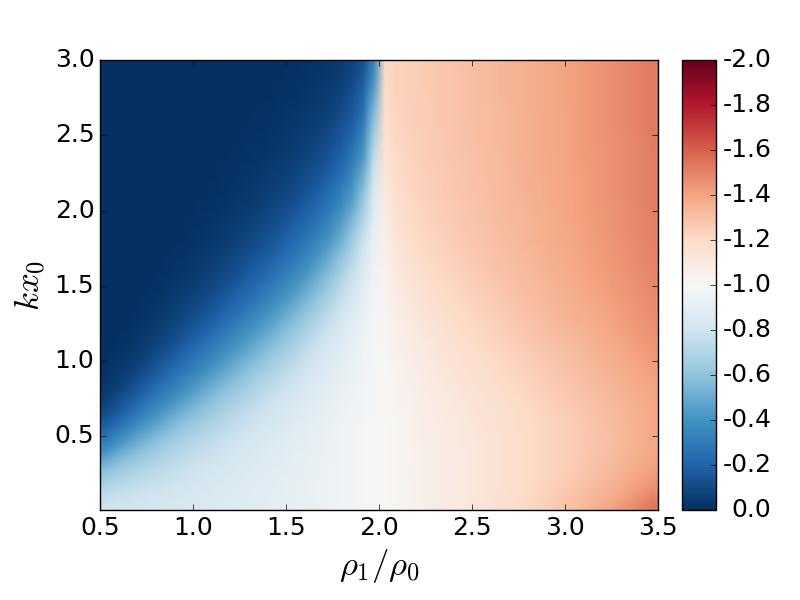
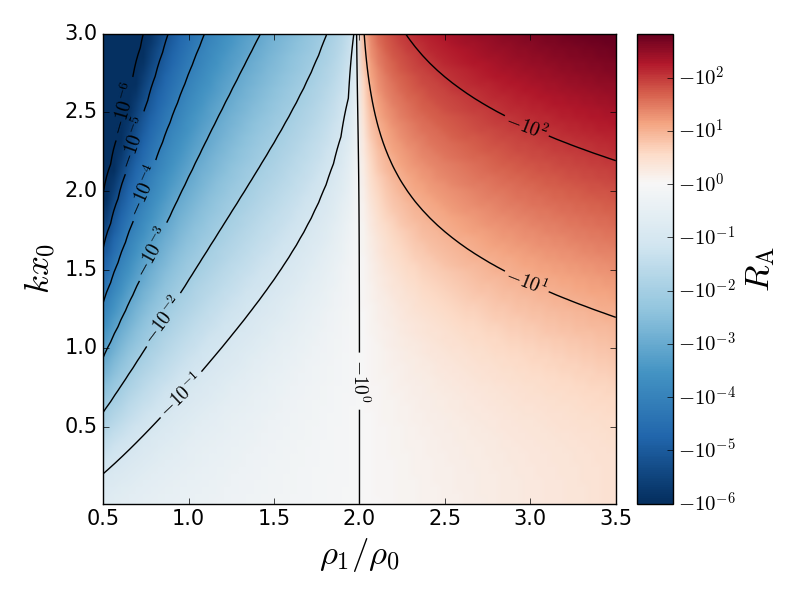
Added specific contours to sms.py plots

diff --git a/sms.py b/sms.py
@@ -21,7 +21,6 @@ c0 = 1.
 vA = 1.3
 cT = sc.sqrt(c0**2*vA**2*(c0**2+vA**2)**(-1))
 R2 = 2.
-#c1 = c2*np.sqrt(R2/R1)
 
 mode_options = ['slow-kink-surf', 'slow-saus-surf', 'fast-kink-surf',
                 'fast-saus-surf']
@@ -35,7 +34,7 @@ for mode in mode_options:
     if 'saus' in mode:
         saus_mode_options.append(mode)
 
-mode = mode_options[0]
+mode = mode_options[1]
 
 plot_variable = 'amp-ratio'
 #plot_variable = 'amp-ratio-2'
@@ -300,16 +299,12 @@ else:
 fig = plt.figure()
 aspect = 'auto'
 
-#
+# plot heat map
 im = plt.imshow(data_set.transpose(), cmap=cmap, origin='lower', norm=norm, 
                 clim=clim(data_set,plot_variable), aspect=aspect, 
                 extent=[R1vals[0],R1vals[-1],Kvals[0],Kvals[-1]])
-contours = plt.contour(data_set.transpose(), colors='black', extent=[R1vals[0],R1vals[-1],Kvals[0],Kvals[-1]])
 
-#Make negative contours solid too.
-matplotlib.rcParams['contour.negative_linestyle'] = 'solid'
 
-plt.clabel(contours, inline=1, fmt='%1.1f', fontsize=14)
 ax = plt.gca()
 
 plt.xlabel(r'$\rho_1/\rho_0$', fontsize=25)
@@ -351,21 +346,46 @@ elif 'min-pert-shift' in plot_variable:
     cb_label = r'$\Delta_\mathrm{min}$'
 cb.set_label(cb_label, fontsize=25)
 
+
 # colorbar tick labels
 if 'amp-ratio' in plot_variable:
     if 'kink' in mode:
-        cb.set_ticks([0.01,0.1,1.,10.,100])
-        cb.set_ticklabels([r'$10^{-2}$',r'$10^{-1}$',r'$10^{0}$',r'$10^{1}$',r'$10^{2}$'])
+        cb_ticks = [0.01,0.1,1.,10.,100]
+        cb_ticklabels = [r'$10^{-2}$',r'$10^{-1}$',r'$10^{0}$',r'$10^{1}$',r'$10^{2}$']
     elif 'saus' in mode:
-        cb.set_ticks([-0.000001,-0.00001,-0.0001,-0.001,-0.01,-0.1,-1.,-10.,-100])
-        cb.set_ticklabels([r'$-10^{-6}$',r'$-10^{-5}$',r'$-10^{-4}$',r'$-10^{-3}$',
-                           r'$-10^{-2}$',r'$-10^{-1}$',r'$-10^{0}$',r'$-10^{1}$',
-                           r'$-10^{2}$'])
+        cb_ticks = [-100, -10, -1, -0.1, -0.01, -0.001, -0.0001, -0.00001, -0.000001]
+        cb_ticklabels = [r'$-10^{2}$',r'$-10^{1}$',r'$-10^{0}$',r'$-10^{-1}$',
+                           r'$-10^{-2}$',r'$-10^{-3}$',r'$-10^{-4}$',r'$-10^{-5}$',
+                           r'$-10^{-6}$']
+    cb.set_ticks(cb_ticks)
+    cb.set_ticklabels(cb_ticklabels)
+else:
+    cb_ticks = []
+    cb_ticklabels = []
+    for t in cb.ax.get_yticklabels():
+        cb_ticks.append(float(t.get_text()))
+        cb_ticklabels.append(t.get_text())
+
+# overlay individual contours
+contours = ax.contour(data_set.transpose(), levels=cb_ticks, colors='black', 
+                       extent=[R1vals[0],R1vals[-1],Kvals[0],Kvals[-1]])
+
+#Make negative contours solid too.
+matplotlib.rcParams['contour.negative_linestyle'] = 'solid'
+
+#set contour labels
+fmt = {}
+for l, t in zip(cb_ticks, cb_ticklabels):
+    fmt[l] = t
+ax.clabel(contours, fmt=fmt, fontsize=14)
+
 
 # invert y-axis for sausage modes (since they are negative values)
 if 'saus' in mode and 'amp-ratio' in plot_variable:
     cb.ax.invert_yaxis()
     print('axis inverted')
+
+
 
 #plt.gcf().subplots_adjust(bottom=0.15, right=3.)
 plt.tight_layout()
